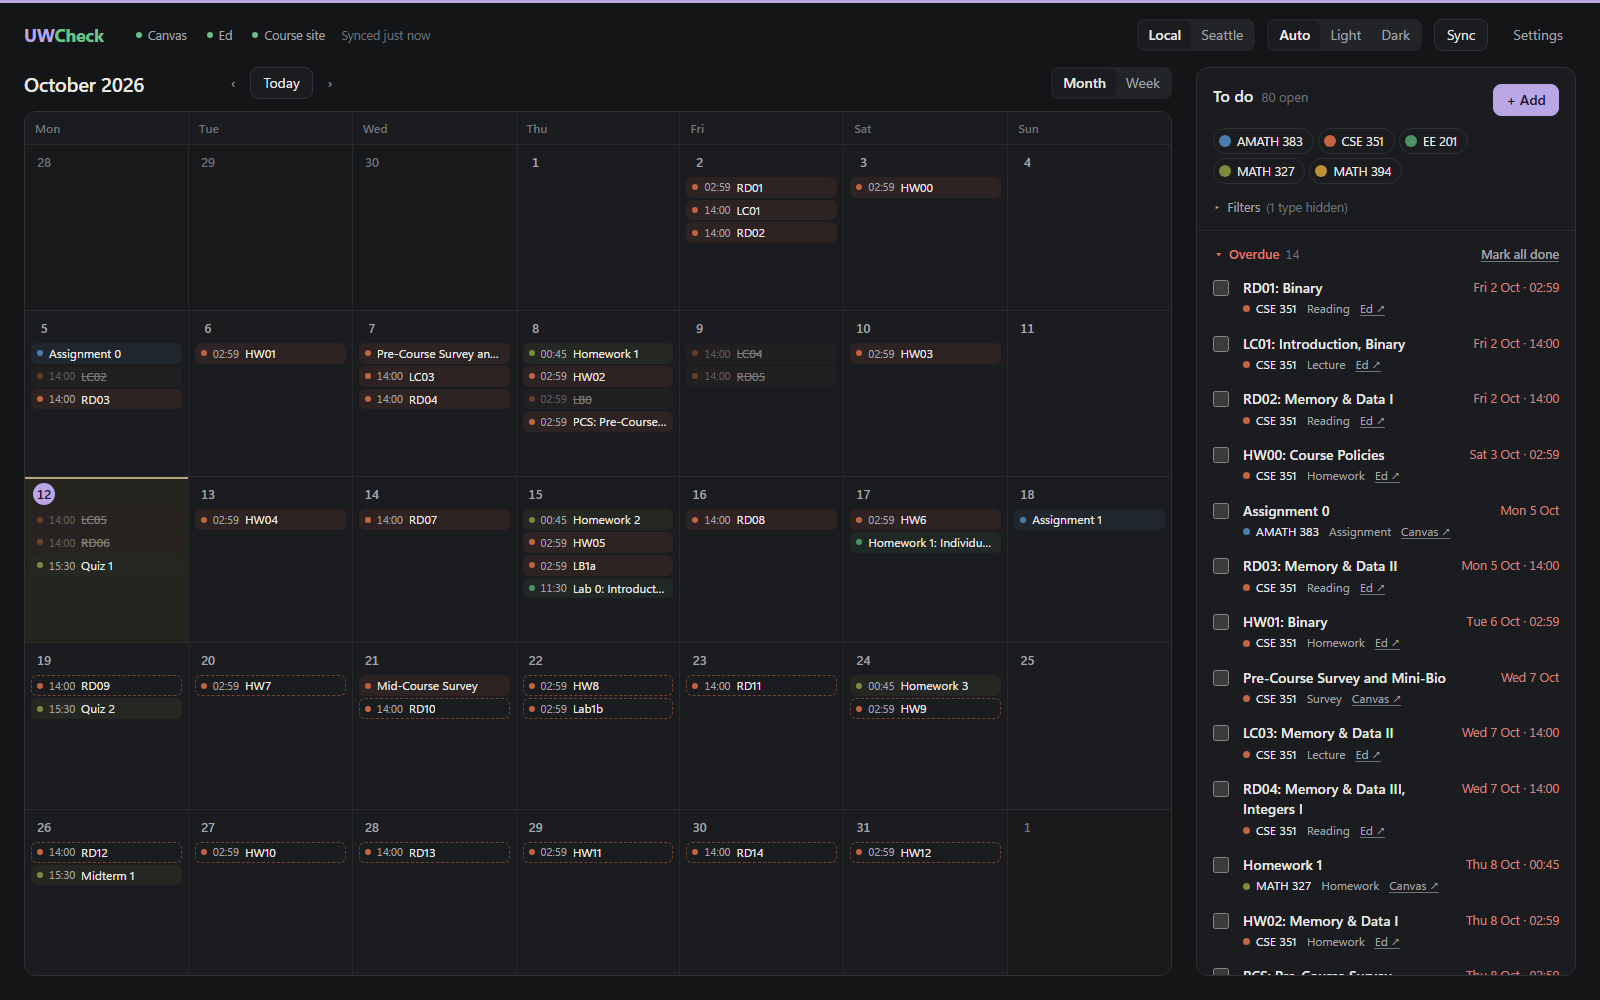
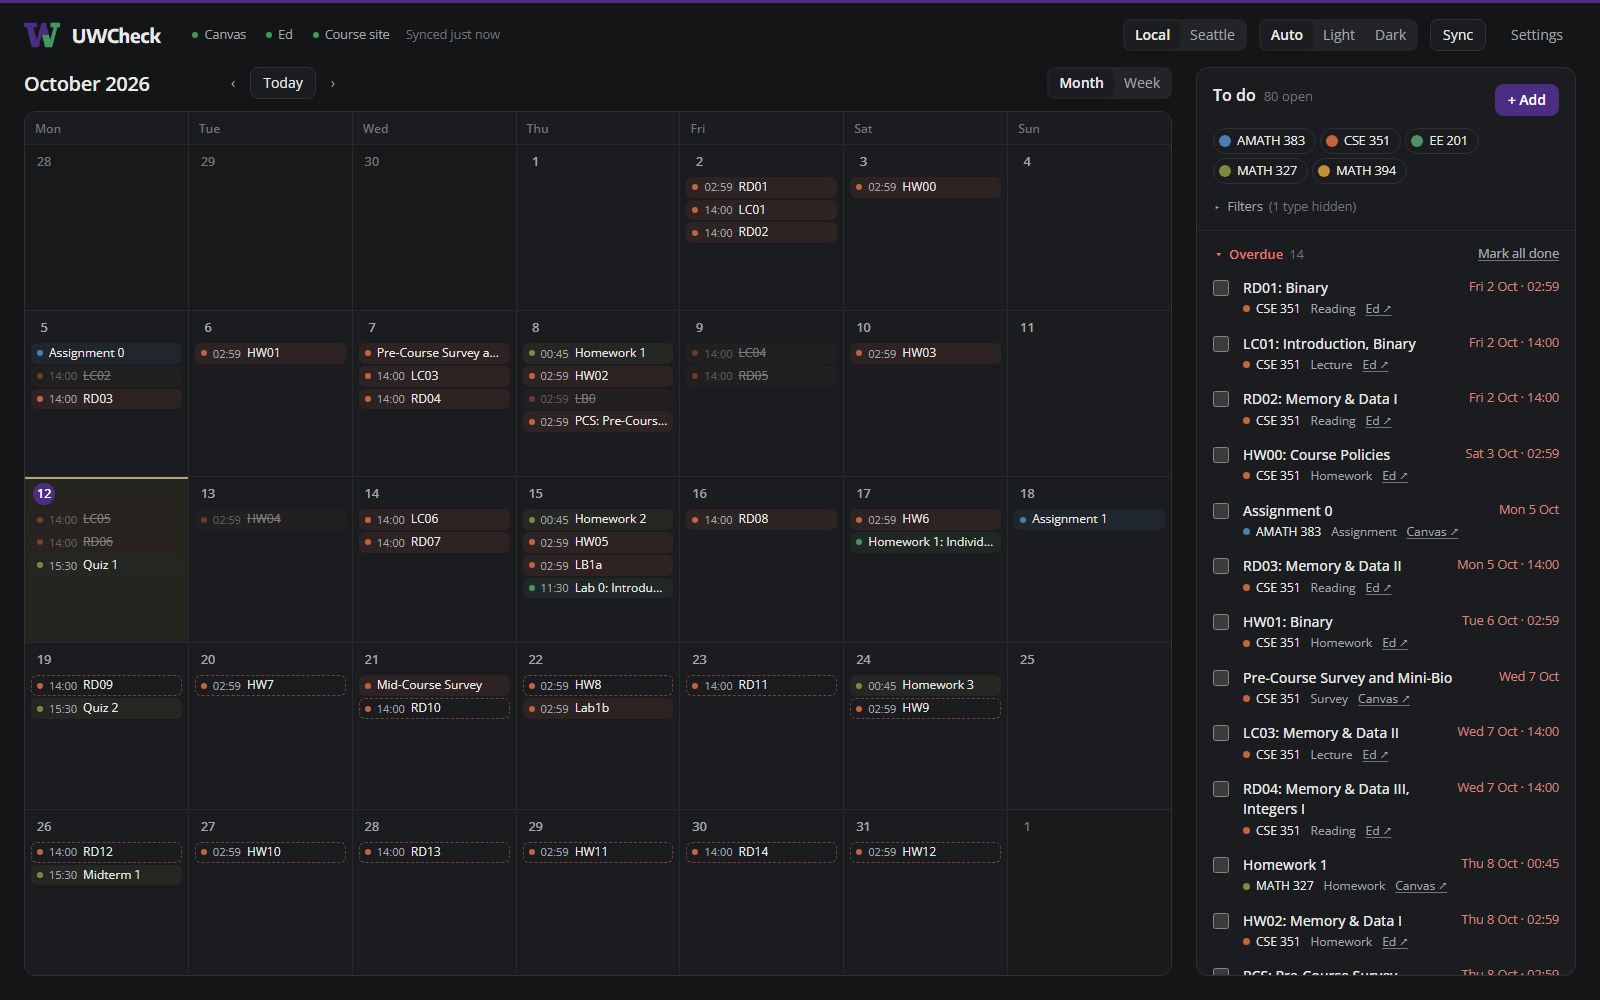
Trim README to focus on installation; refresh screenshots

diff --git a/README.md b/README.md
@@ -8,107 +8,58 @@
   <b>One calendar and to-do list for every UW deadline: Canvas, Ed and CSE course websites.</b>
 </p>
 
-<p align="center">
-  <img alt="Node 18+" src="https://img.shields.io/badge/node-%E2%89%A518-3f9a5c">
-  <img alt="Zero dependencies" src="https://img.shields.io/badge/dependencies-0-4b2e83">
-  <img alt="Runs locally" src="https://img.shields.io/badge/data-stays%20on%20your%20computer-4b2e83">
-  <img alt="MIT license" src="https://img.shields.io/badge/license-MIT-lightgrey">
-</p>
-
 <picture>
   <source media="(prefers-color-scheme: dark)" srcset="docs/screenshot-dark.png">
   <img alt="UWCheck showing a month calendar of deadlines next to a to-do list" src="docs/screenshot-light.png">
 </picture>
 
-## Why
+## Install
 
-At UW, deadlines are spread across Canvas, Ed lessons and course websites, and each one shows only part of the picture. UWCheck pulls them all into one place, removes duplicates, and lets you tick things off.
+1. Install [Node.js](https://nodejs.org) (the LTS download).
+2. Open a terminal and run:
 
-- **Every course in one view.** Canvas assignments, quizzes and events, Ed lessons (readings, lectures, labs, homework) and UW CSE `assignments.html` pages.
-- **Removes duplicates.** When a CSE course lists `HW4` on both Ed and its website, you see it once.
-- **Shows what's coming.** Work listed on the course website but not yet released on Ed appears as a dashed preview.
-- **Month and week views**, an overdue / today / upcoming to-do list, course colours, filters, your own deadlines, light and dark themes, and a Local / Seattle time-zone toggle.
-- **Private by design.** A small local server with no dependencies. Your token and ticks are stored only on your computer.
+   ```sh
+   npx uwcheck
+   ```
 
-## Quick start
+3. Your browser opens at <http://localhost:7351> with **Settings**. Fill in:
+   - **Canvas calendar feed URL:** in Canvas, open **Calendar**, click **Calendar Feed** (bottom right), and copy the link.
+   - **Ed API token** *(optional)*: create one at [edstem.org → Settings → API Tokens](https://edstem.org/us/settings/api-tokens).
+4. Click **Save & sync**.
 
-You need [Node.js](https://nodejs.org) 18 or newer (the LTS download is fine). Then run one command:
+Keep the terminal open while you use it. <kbd>Ctrl</kbd>+<kbd>C</kbd> stops it.
 
-```sh
-npx uwcheck
-```
+### Or: install it as an app
 
-Your browser opens at <http://localhost:7351>, along with **Settings**:
-
-1. **Canvas calendar feed URL.** In Canvas, open **Calendar**, then click **Calendar Feed** (bottom right) and copy the link. This covers every Canvas course.
-2. **Ed API token** *(optional)*. Create one at [edstem.org → Settings → API Tokens](https://edstem.org/us/settings/api-tokens). All of your active Ed courses are picked up automatically.
-
-Click **Save & sync**. That's all the setup there is.
-
-Keep the terminal open while you use the dashboard, and press <kbd>Ctrl</kbd>+<kbd>C</kbd> to stop.
-
-### Install it as an app
-
-To get a UWCheck icon you can click like any other app:
+Get a clickable UWCheck icon (Start menu / desktop on Windows, `~/Applications` on macOS, app launcher on Linux) that runs in the background, no terminal needed:
 
 ```sh
 npm install -g uwcheck
 uwcheck --install
 ```
 
-This adds **UWCheck** to your Start menu and desktop on Windows, to `~/Applications` on macOS, or to your app launcher on Linux. Clicking it starts UWCheck in the background if it isn't already running, then opens it in its own window using Chrome or Edge. You don't need to keep a terminal open.
-
 | Command | What it does |
 |---|---|
-| `uwcheck --stop` | Stops the background server (the app icon starts it again). |
-| `uwcheck --uninstall` | Removes the app icon and stops UWCheck. Your settings are kept. |
-| `npm install -g uwcheck@latest` | Updates to the latest version. If UWCheck is running from the app icon, it switches to the new version by itself within a minute. |
-| `uwcheck --help` | Lists all options (`--port`, `--no-open`, ...). |
+| `npm install -g uwcheck@latest` | Update. A running app switches to the new version within a minute. |
+| `uwcheck --stop` | Stop the background server. |
+| `uwcheck --uninstall` | Remove the app icon. Your settings are kept. |
+| `uwcheck --help` | All options (`--port`, `--no-open`, ...). |
 
-## Using it
+When an update is out, an **Update** button appears in the header.
 
-| | |
-|---|---|
-| **Tick off work** | Use the checkboxes in the to-do list, or click any item on the calendar. |
-| **Hide a course** | Click it in the legend. Double-click to show only that course, and again to show all. Click its coloured dot to change the colour. |
-| **Filters** | Hide assignment types, or show completed and unreleased items. |
-| **Add your own** | Use **+ Add**, or the **+** on any calendar day. |
-| **Views** | Month / Week. Week view shows full titles. In month view, click **+N more** to see a busy day. |
-| **Time zone** | **Local** follows your computer. **Seattle** shows UW time, which is useful when you're travelling. |
-| **Keyboard** | <kbd>←</kbd> <kbd>→</kbd> move by a month or a week, <kbd>T</kbd> goes to today, <kbd>M</kbd> / <kbd>W</kbd> switch views. |
+## Optional: course websites
 
-It syncs on launch, every 30 minutes, and whenever you click **Sync**. The dot next to each source in the header is green when it's connected, orange when it isn't set up yet, and red when the last sync failed. After a failed sync, the last good copy stays on screen.
-
-## Optional settings
-
-Under **Settings → Advanced**:
-
-- **Ed courses:** leave this empty to include every active course. To limit or rename courses, add `course id = name` lines. The id is the number in `edstem.org/us/courses/107500/lessons`.
-- **Course websites:** UW CSE courses publish an `assignments.html` page that often lists work before it's released on Ed. Add one per line, for example
-  `https://courses.cs.washington.edu/courses/cse351/26au/assignments.html = CSE 351`
-- **Canvas course names:** course names are read from the feed. To shorten one, add `canvas course id = name`.
-
-To use another port, run `uwcheck --port 8080`.
-
-## How it works
+UW CSE courses often list work on their `assignments.html` page before it's released on Ed. Add them under **Settings → Advanced**, one per line:
 
 ```
-Canvas .ics feed ─┐
-Ed lessons API ───┼─▶ server.js ─▶ merge + dedupe ─▶ ~/.uwcheck/     ─▶ public/index.html
-Course websites ──┘   (Node, no dependencies)         (last good copy)    (one-file UI)
+https://courses.cs.washington.edu/courses/cse351/26au/assignments.html = CSE 351
 ```
 
-- **`server.js`** fetches each source, normalises course codes (`MATH/STAT 394 A` becomes `MATH 394`, `E E 201` becomes `EE 201`), handles Seattle time zones and daylight saving without any libraries, and serves a small JSON API.
-- **`public/index.html`** is the whole interface in one file: plain HTML, CSS and JavaScript, with no build step.
-- **`~/.uwcheck/`** (e.g. `C:\Users\you\.uwcheck`) is created on first run, outside the install folder, so updates never wipe it. It holds `config.json` (your feed URL and token), `state.json` (ticks, colours, custom tasks) and `cache.json`. Set `UWCHECK_DATA` to use a different folder.
+The same panel lets you limit or rename Ed and Canvas courses (`course id = name`).
 
 ## Privacy
 
-UWCheck listens only on `127.0.0.1`, so nothing else on your network can reach it, and it rejects requests from other websites. Your Canvas feed URL and Ed token are stored in plain text in `~/.uwcheck/config.json` and are sent only to Canvas and Ed. Treat that folder like a password and don't share it.
-
-## Updates
-
-When a new version is out, an **Update to x.y.z** button appears in the header. Click it to copy the update command, then paste it into a terminal. UWCheck checks npm once a day; set `UWCHECK_NO_UPDATE_CHECK=1` to turn that off.
+Everything runs on your computer and listens only on `127.0.0.1`. Your Canvas feed URL and Ed token are saved in `~/.uwcheck/config.json` and sent only to Canvas and Ed. Treat that folder like a password.
 
 ## Running from source
 
@@ -118,8 +69,6 @@ cd uwcheck
 npm start
 ```
 
-On Windows you can also double-click **`Start Dashboard.bat`**. On macOS/Linux, run `./start.sh`.
-
 ## License
 
-[MIT](LICENSE). The bundled Open Sans and Encode Sans fonts are under the [SIL Open Font License](public/fonts/OFL.txt). Not affiliated with or endorsed by the University of Washington, Instructure or Ed.
+[MIT](LICENSE). Bundled fonts are under the [SIL Open Font License](public/fonts/OFL.txt). Not affiliated with the University of Washington, Instructure or Ed.
